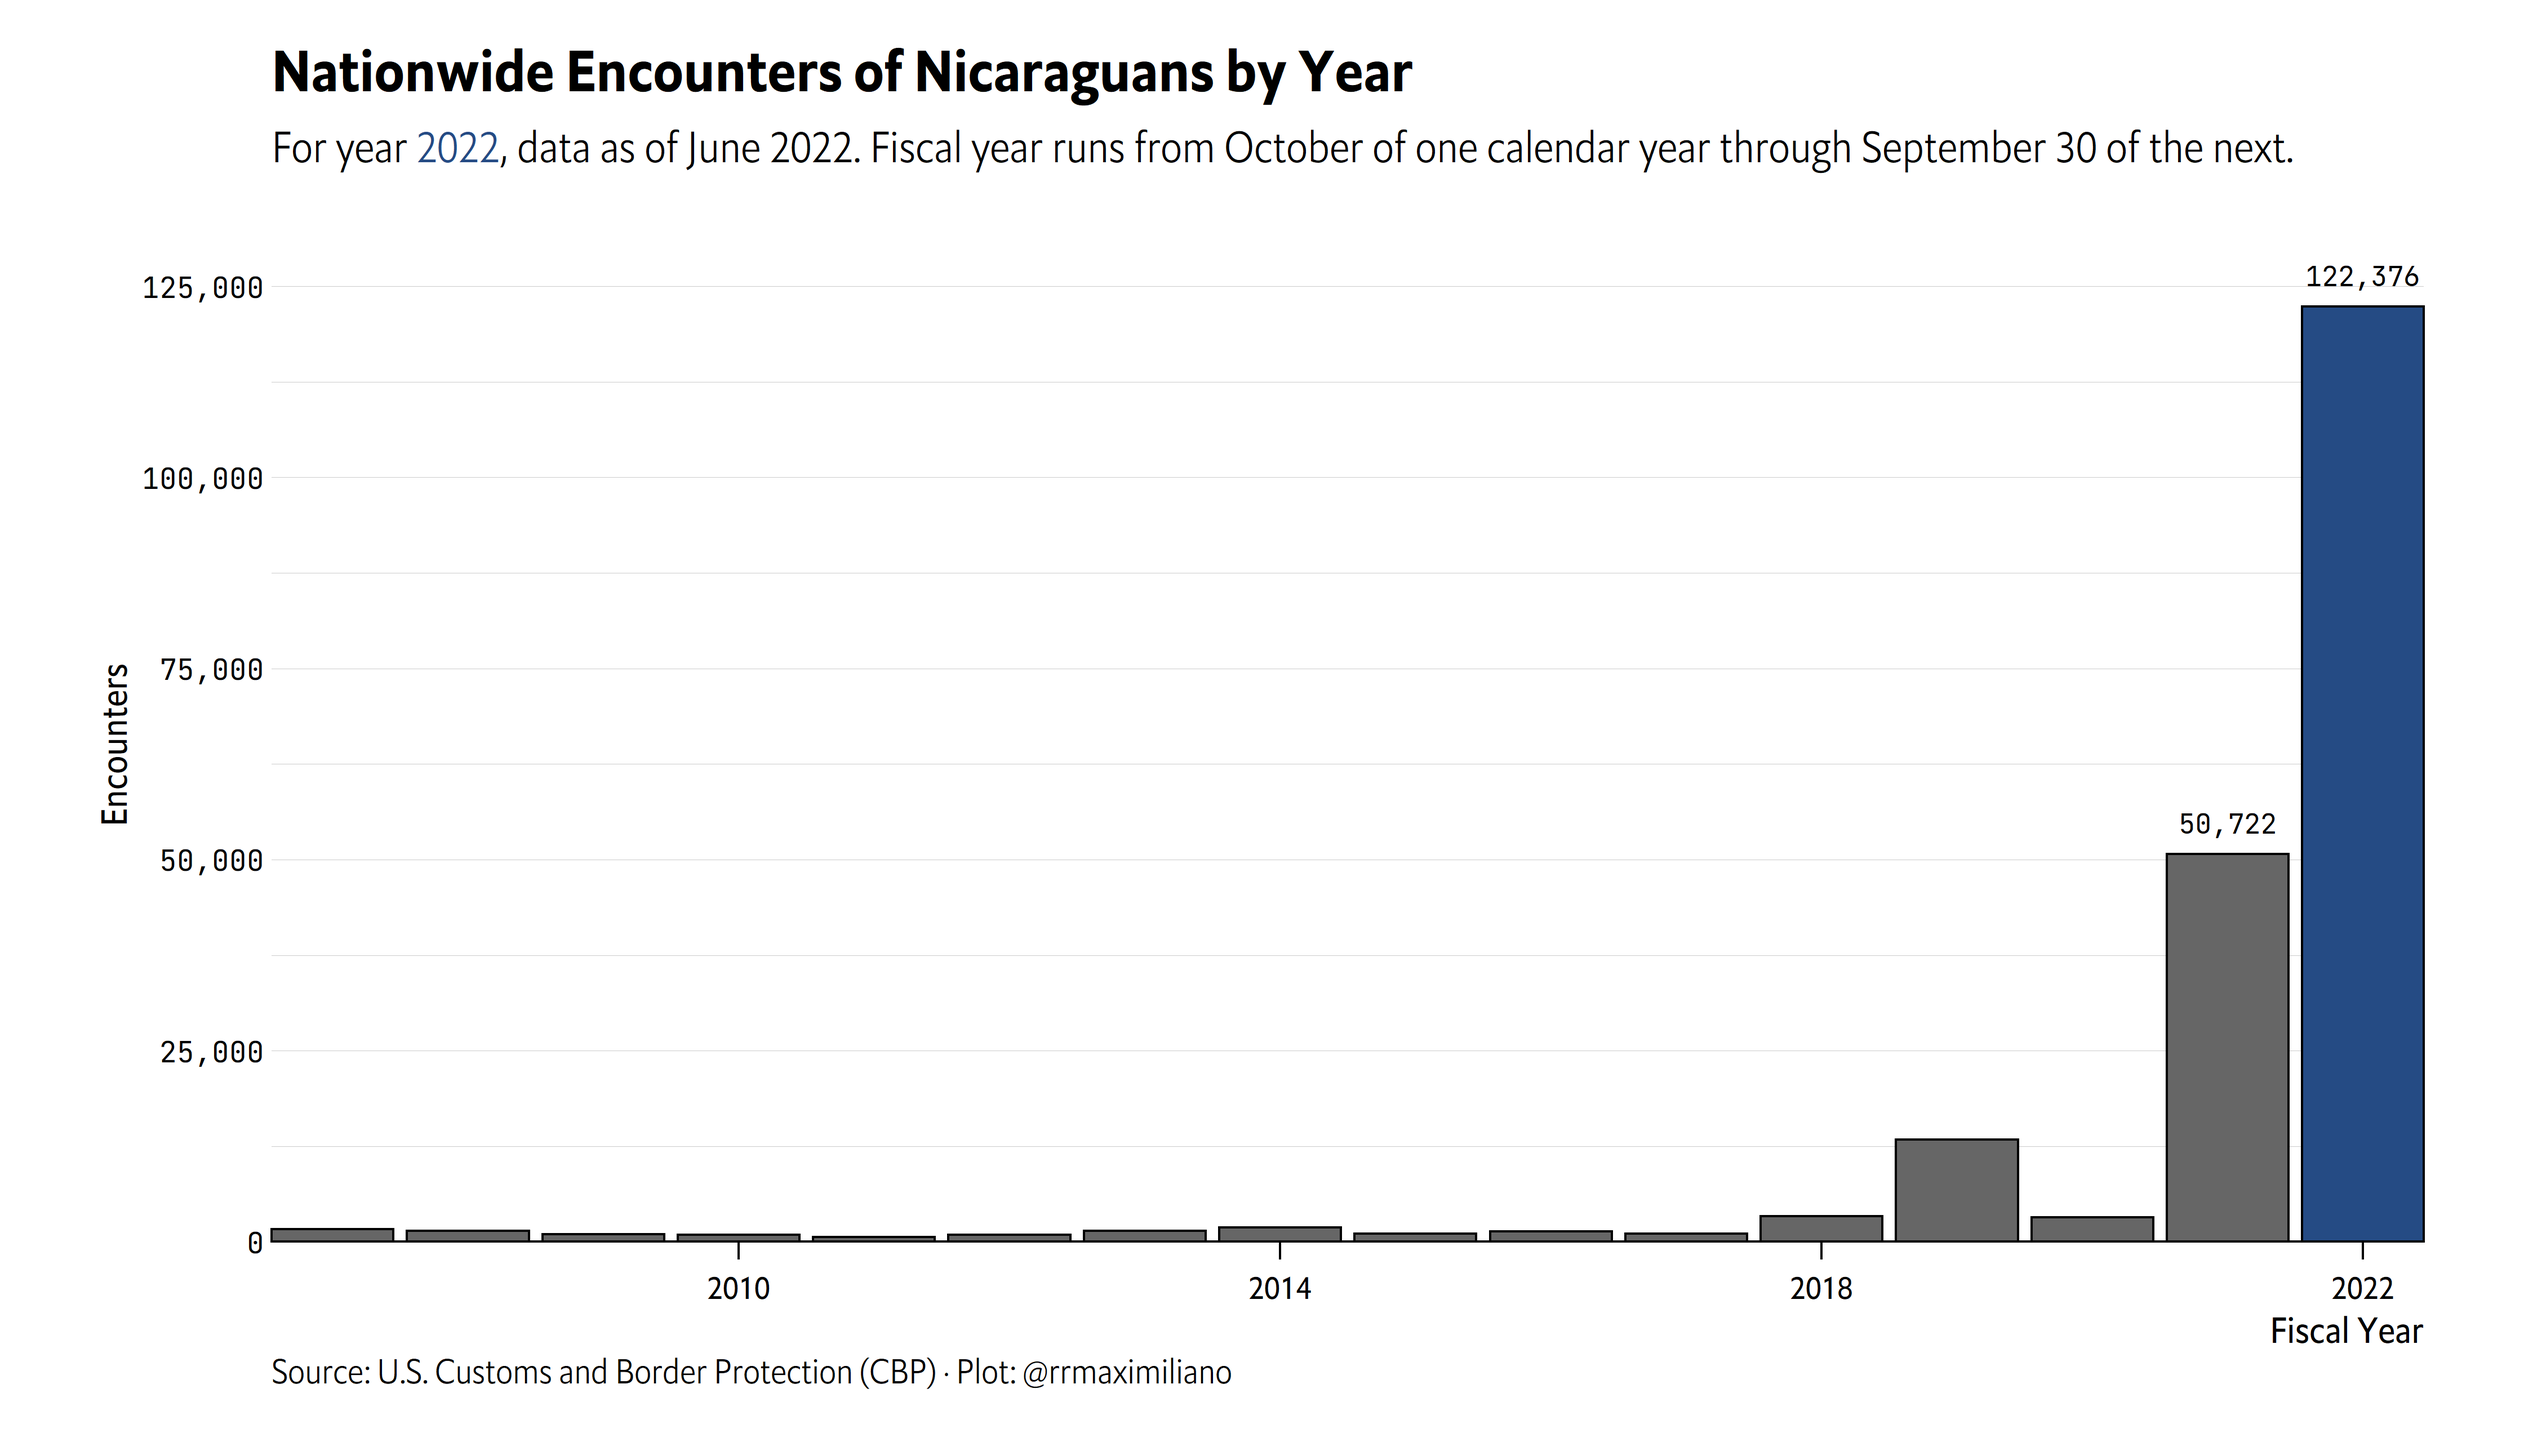
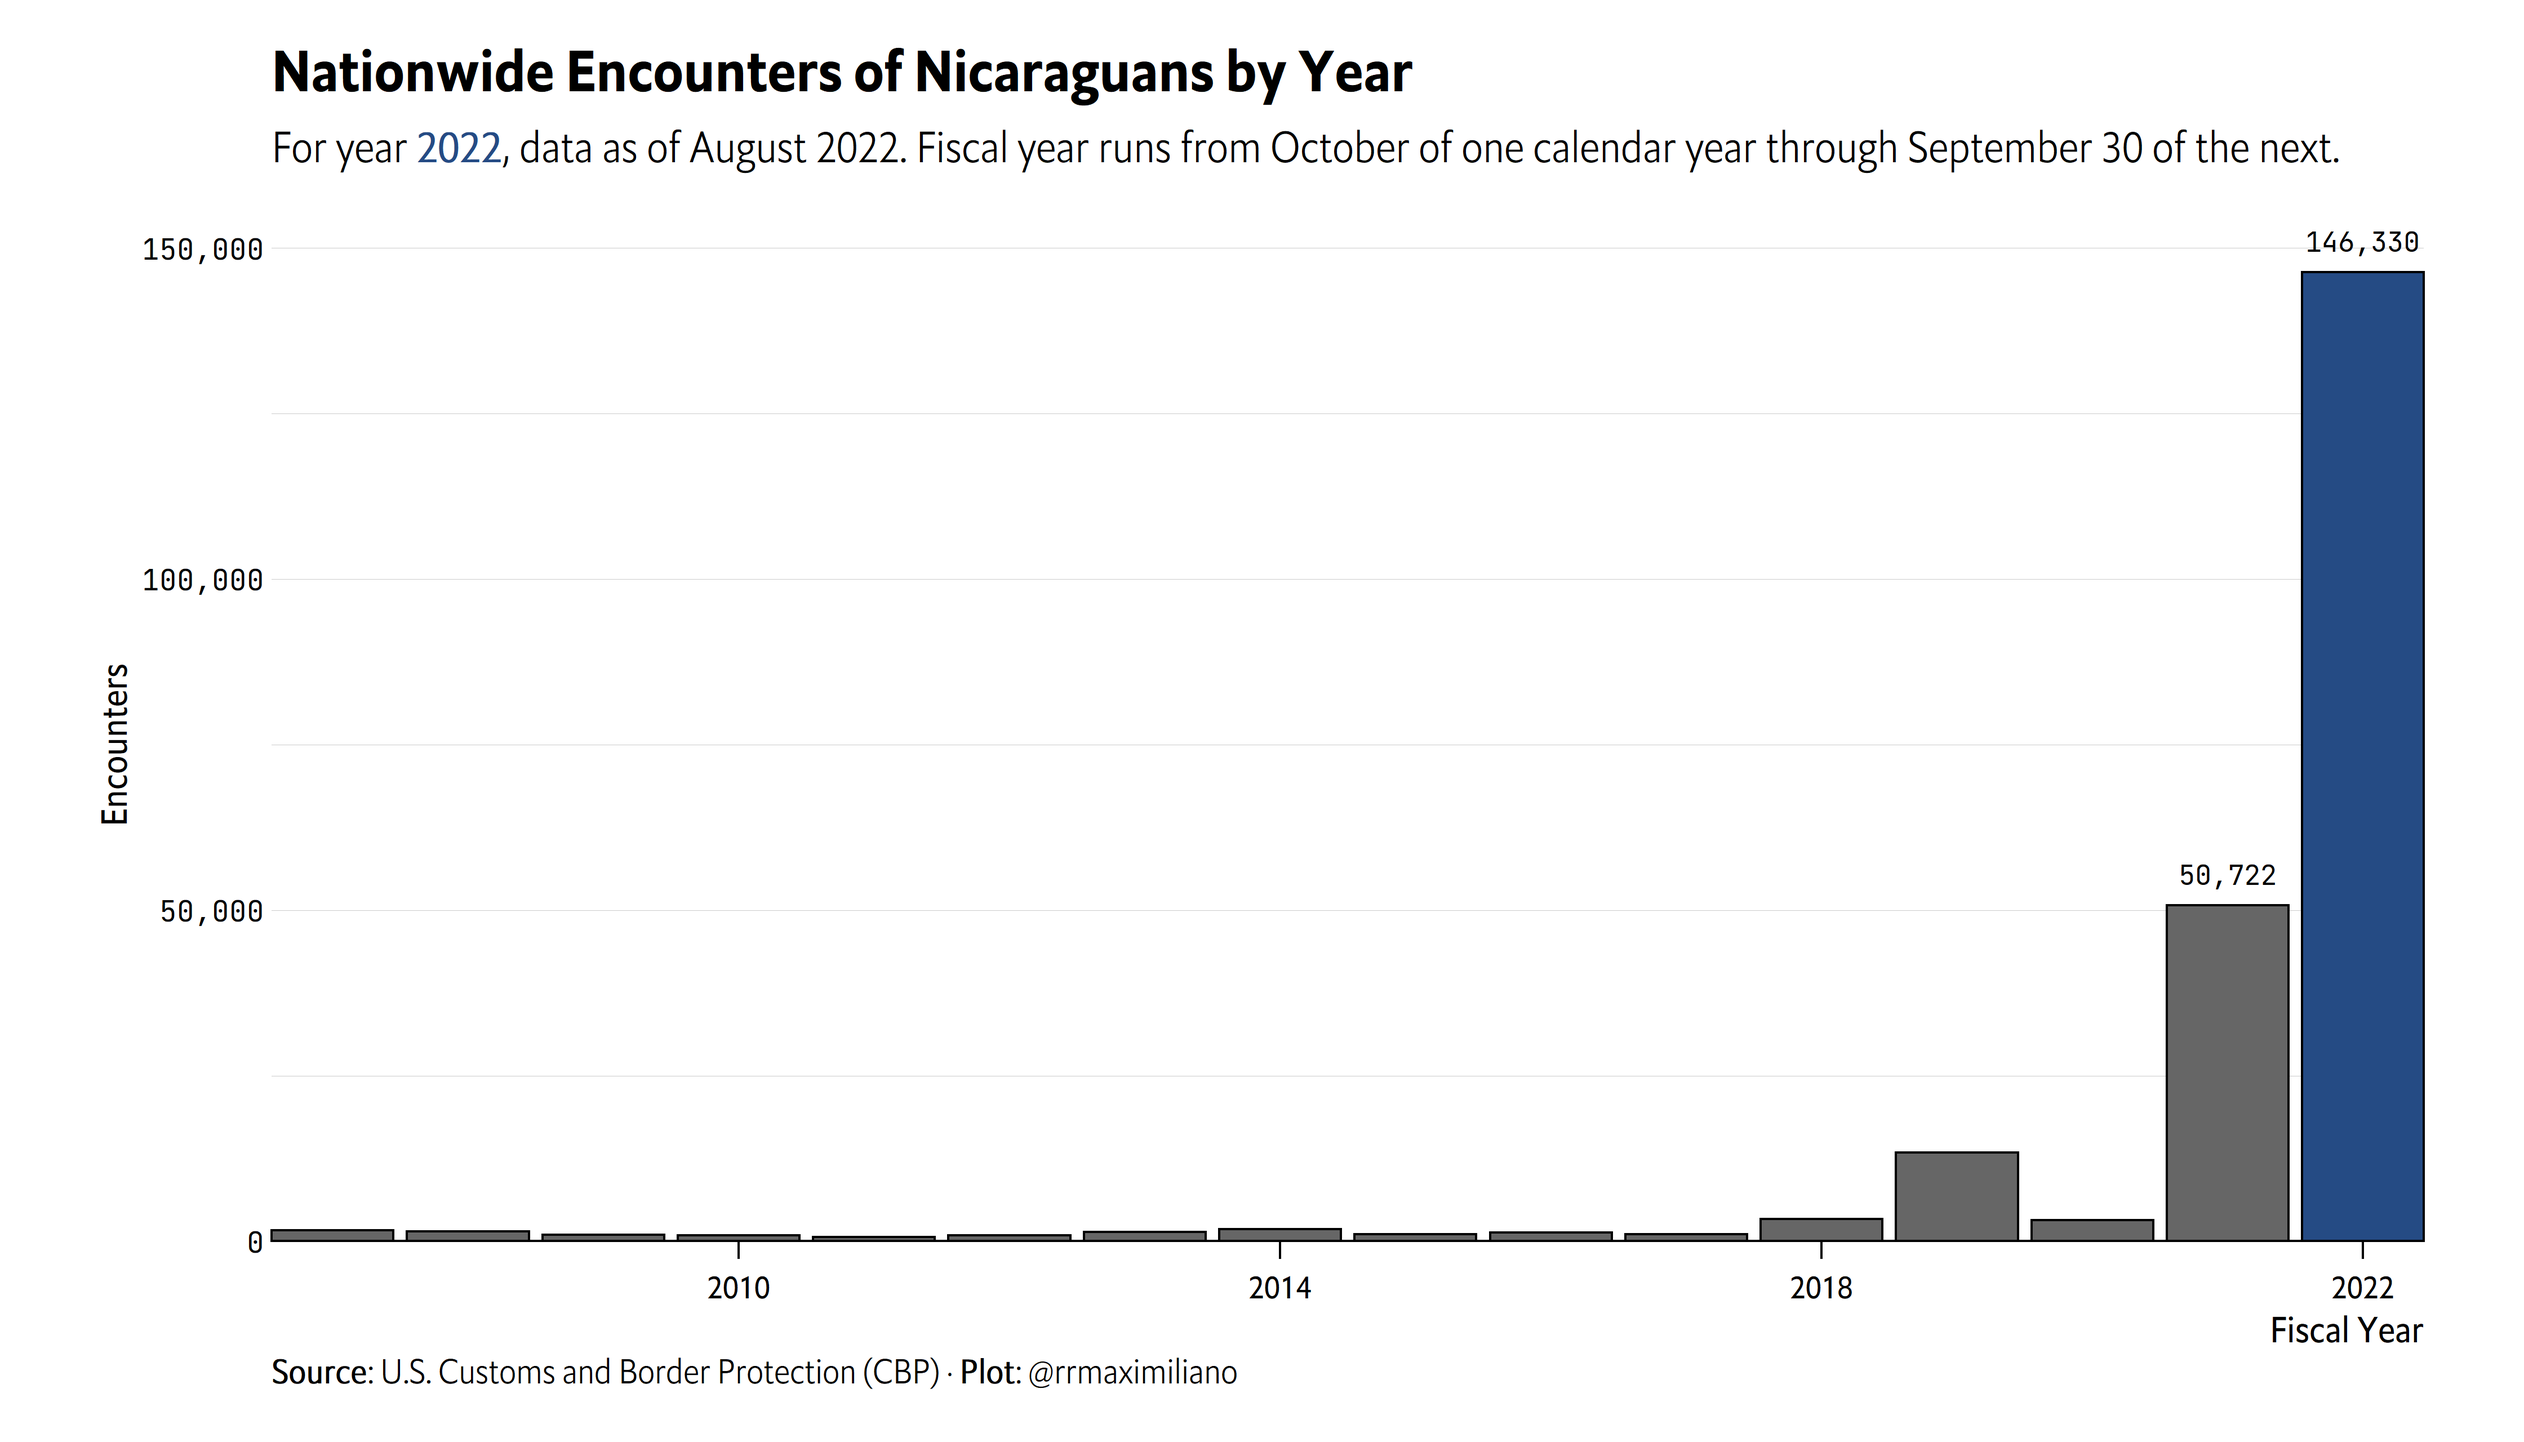
:pencil: Update Aug 2022

diff --git a/README.md b/README.md
@@ -19,6 +19,7 @@ data
 #>  9  2007 Afghanistan Southwest YUM           1
 #> 10  2007 Afghanistan Northern  BLW          NA
 #> # … with 41,390 more rows
+#> # ℹ Use `print(n = ...)` to see more rows
 ```
 
 ## Nicaragua
